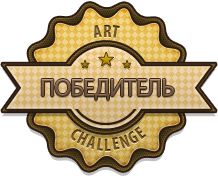
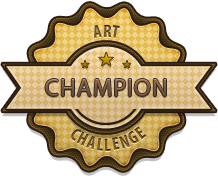
english

Changed region(s): [[0.1651, 0.4213, 0.8257, 0.5618]]

diff --git a/en/index.html b/en/index.html
@@ -5,13 +5,13 @@
     <meta http-equiv="X-UA-Compatible" content="IE=edge">
     <meta property="og:type"   content="website" /> 
     <meta name="viewport" content="width=device-width, initial-scale=1">
-    <meta name="description" content="Попробуйте отгадать 10 художников подряд и победить своих друзей!">
-    <meta property="og:description" content="Попробуйте отгадать 10 художников подряд и победить своих друзей!" />
+    <meta name="description" content="Try to guess 10 painters in a row and defeat your friends!">
+    <meta property="og:description" content="Try to guess 10 painters in a row and defeat your friends!" />
     <link rel="shortcut icon" href="favicon.ico">
     <link rel="image_src" href="http://artchallenge.ru/art-challenge-logo.png">
-    <title>Art Challenge - игра на знание популярных художников</title>
-    <meta property="og:title" content="Art Challenge - игра на знание популярных художников" />
-    <meta property="og:url" content="http://artchallenge.ru/" />
+    <title>Art Challenge - Game on Knowledge of Popular Painters</title>
+    <meta property="og:title" content="Art Challenge - Game on Knowledge of Popular Painters" />
+    <meta property="og:url" content="http://artchallenge.ru/en/" />
     <meta property="og:image" content="http://artchallenge.ru/art-challenge-logo-facebook.png" />
     <meta property="og:site_name" content="Art Challenge"/>
     
@@ -427,17 +427,16 @@
               putButtons('Vasily Vereshchagin');
               window.truePainterName = "Vasily Vereshchagin";
             }
-            
-            
-              
+                  
       puticons();
+      winner();
     }
 
     
     function winner() {
       $.pnotify({
-          title: 'Поздравляем!',
-          text: 'Вы великолепно разбираетесь в искусcтве!<br>10 из 10 – это лучше, чем 82% людей, сыгравших в эту игру!' + "<br><br><a onclick='ShareVK();' href='#'><img style='margin-left: 25px;' width='230px'  src='winner-badge.png'></a><br><br><text style='font-size: 16px;'>Вы можете рассказать о победе в социальных сетях:<br><a onclick='ShareVK();' href='#'> <span class='glyphicon glyphicon-share-alt'></span> ВКонтакте </a><br><a onclick='ShareFB();' href='#'><span class='glyphicon glyphicon-share-alt'></span> Facebook </a><br><a onclick='ShareOD();' href='#'><span class='glyphicon glyphicon-share-alt'></span> Одноклассники </a><br><a onclick='ShareMM();' href='#'><span class='glyphicon glyphicon-share-alt'></span> Мой Мир </a></text>",
+          title: 'Congratulations!',
+          text: 'You are perfectly good in the Art!<br>10 out of 10 - it is better than 82% of people who have played this game!' + "<br><br><a onclick='ShareFB();' href='#'><img style='margin-left: 25px;' width='230px'  src='winner-badge.png'></a><br><br><text style='font-size: 16px;'>You can share your win with friends:<br><a onclick='ShareFB();' href='#'><span class='glyphicon glyphicon-share-alt'></span> Facebook </a><br><a onclick='ShareVK();' href='#'> <span class='glyphicon glyphicon-share-alt'></span> VKontakte </a></text>",
           type: 'note',
           hide: false,
           closer: false,
@@ -453,28 +452,15 @@
     
     function ShareVK() {
       yaCounter24594722.reachGoal('WINNER-SHARE-VK');
-      url = "http://vk.com/share.php?url=http://artchallenge.ru/?utm_source=vk-win" + "&title=Господа, я отлично разбираюсь в искусстве!&description=Попробуйте отгадать 10 художников подряд и посоревноваться со мной!&image=http://artchallenge.ru/art-challenge-winner1.png";
+      url = "http://vk.com/share.php?url=http://artchallenge.ru/en/?utm_source=vk-win-en" + "&title=Ladies and Gentlemen, I am perfectly good in the Art! %23ArtChallenge&description=Try to guess 10 painters in a row and defeat your friends!&image=http://artchallenge.ru/art-challenge-winner1.png";
       window.open(url,'targetWindow','toolbar=no,location=no,status=no,menubar=no,scrollbars=yes,resizable=yes,width=604,height=401');
     }        
     
     function ShareFB() {
       yaCounter24594722.reachGoal('WINNER-SHARE-FB');
       
-      url = "https://www.facebook.com/dialog/feed?app_id=478531102278887&display=popup&link=http://artchallenge.ru/?utm_source=fb-win&redirect_uri=http://artchallenge.ru/&picture=http://artchallenge.ru/winner-badge200.png&source=http://artchallenge.ru/winner-badge200.png&name=Господа, я отлично разбираюсь в искусстве!&caption=Art Challenge - игра на знание популярных художников"
+      url = "https://www.facebook.com/dialog/feed?app_id=478531102278887&display=popup&link=http://artchallenge.ru/en/?utm_source=fb-win-en&redirect_uri=http://artchallenge.ru/1.html&picture=http://artchallenge.ru/en/winner-badge200.png&source=http://artchallenge.ru/en/winner-badge200.png&name=Ladies and Gentlemen, I am perfectly good in the Art!&caption=Art Challenge - Game on Knowledge of Popular Painters"
       
-      window.open(url,'targetWindow','toolbar=no,location=no,status=no,menubar=no,scrollbars=yes,resizable=yes,width=604,height=401');
-    }        
-
-    function ShareOD() {
-      yaCounter24594722.reachGoal('WINNER-SHARE-OD');
-      url = "http://www.odnoklassniki.ru/dk?st.cmd=addShare&st.s=1&st.comments=Господа, я отлично разбираюсь в искусстве!&st._surl=http://artchallenge.ru/?utm_source=od-win";
-      
-      window.open(url,'targetWindow','toolbar=no,location=no,status=no,menubar=no,scrollbars=yes,resizable=yes,width=604,height=401');
-    }        
-
-    function ShareMM() {
-      yaCounter24594722.reachGoal('WINNER-SHARE-MM');
-      url = "http://connect.mail.ru/share?url=http://artchallenge.ru/?utm_source=mm-win&title=Господа, я отлично разбираюсь в искусстве!&description=Art Challenge - игра на знание популярных художников";
       window.open(url,'targetWindow','toolbar=no,location=no,status=no,menubar=no,scrollbars=yes,resizable=yes,width=604,height=401');
     }        
 
@@ -707,8 +693,8 @@
       setTimeout(function() {location.reload(false)}, 2000)
       
       $.pnotify({
-          title: 'Верно!',
-          text: 'Вы отгадали ' + parseInt(window.counter) + " картину",
+          title: 'Right!',
+          text: 'You guessed ' + parseInt(window.counter) + " picture",
           type: 'success',
           hide: false,
           closer: false,
@@ -727,7 +713,7 @@
       
       $.pnotify({
           title: badPhrase(),
-          text:  "Это же " + window.truePainterName + ".<br><br><img src='" + "https://dl.dropboxusercontent.com/u/15486902/painters/" + window.truePainter + "/photo.jpg' style='width: 100px;'><br><br><a style='cursor: pointer;' onclick='retry();'>Попробовать еще раз</a>",
+          text:  "It's " + window.truePainterName + ".<br><br><img src='" + "https://dl.dropboxusercontent.com/u/15486902/painters/" + window.truePainter + "/photo.jpg' style='width: 100px;'><br><br><a style='cursor: pointer;' onclick='retry();'>Try again.</a>",
           type: 'error',
           icon: 'glyphicon glyphicon-remove',
           hide: false,
@@ -779,43 +765,43 @@
       switch (Math.floor((Math.random()*10)+1))
       {
       case 1:
-        phrase = "Да Вы обезумели!";
+        phrase = "You mad!";
         break;
         
       case 2:
-        phrase = "Ну как не стыдно?";
+        phrase = "No shame?";
         break;
 
       case 3:
-        phrase = "Вам нездоровится?";
+        phrase = "You ill?";
         break;
         
       case 4:
-        phrase = "Что за нелепость?";
+        phrase = "What nonsense?";
         break;
         
       case 5:
-        phrase = "Займитесь самообразованием!";
+        phrase = "Engage in self!";
         break;
 
       case 6:
-        phrase = "Как Вы могли?..";
+        phrase = "How could you?..";
         break;
 
       case 7:
-        phrase = "Нет, нет и нет!";
+        phrase = "No, no and no!";
         break;
 
       case 8:
-        phrase = "Одумайтесь!";
+        phrase = "Think better!";
         break;
 
       case 9:
-        phrase = "А если подумать?";
+        phrase = "Sorry.";
         break;
 
       case 10:
-        phrase = "Какого чёрта?!";
+        phrase = "What the hell?";
         break;
       }
 
@@ -863,7 +849,7 @@
            data-yashareQuickServices="vkontakte,facebook,twitter,odnoklassniki,moimir" data-yashareTheme="counter"></div> 
         </ul>
 
-        <a href="http://www.artchallenge.ru"><h3 class="text-muted"><span class="glyphicon glyphicon-pencil"></span> Art Challenge</h3></a>
+        <a href="http://www.artchallenge.ru/en/"><h3 class="text-muted"><span class="glyphicon glyphicon-pencil"></span> Art Challenge</h3></a>
       </div>
       <br>
 
@@ -890,68 +876,41 @@
         <a id ="btn2" onclick="checkAnswer('btn2');" class="btn btn-lg btn-success"  role="button"></a>
         <a id ="btn3" onclick="checkAnswer('btn3');" class="btn btn-lg btn-success"  role="button"></a>
         <a id ="btn4" onclick="checkAnswer('btn4');" class="btn btn-lg btn-success"  role="button"></a>
-        
-        <br><br><a id="report" title="Сообщить о проблеме с картиной" style="color: lightgray; cursor: pointer;" onclick="report();">Эта картина не репрезентативна</a><br><br>
+
+        <br><br><a id="report" title="Report a problem with this picture" style="color: lightgray; cursor: pointer;" onclick="report();"><span class="glyphicon glyphicon-warning-sign"></span></a><br><br>
         </div>
         
       </div>
       
-      
-      <div style="float: right; margin-top: 15px">
-        
-        <a id="banner" onclick="yaCounter24594722.reachGoal('BANNER'); return true;" target="_blank" rel="nofollow" href="http://ad.admitad.com/goto/5fd1589d3851b6125fbfe0fbcdf1d18f284381fe/?subid=1">
-        <img width="234" height="60" border="0" src="http://ad.admitad.com/b/5fd1589d3851b6125fbfe0fbcdf1d18f284381fe/" alt="Anno Online" />
-        </a>
-        <br><br>
-        
-        <script type='text/javascript'>(function() {
-          /* Optional settings (these lines can be removed): */ 
-          subID = "2";  // - local banner key;
-          injectTo = "";  // - #id of html element (ex., "top-banner").
-          /* End settings block */ 
-
-          if(injectTo=="")injectTo="admitad_shuffle"+subID+Math.round(Math.random()*100000000);
-          if(subID=='')subid_block=''; else subid_block='subid/'+subID+'/';
-          document.write('<div id="'+injectTo+'"></div>');
-          var s = document.createElement('script');
-          s.type = 'text/javascript'; s.async = true;
-          s.src = 'http://www.ad.admitad.com/shuffle/62f599748d/'+subid_block+'?inject_to='+injectTo;
-          var x = document.getElementsByTagName('script')[0];
-          x.parentNode.insertBefore(s, x);
-        })();</script>
-      </div>
 
       <div class="row marketing">
         <div class="col-lg-8">
 
-          <h3>Что здесь происходит?</h3>
-          <p>Вам предлагается развлечь себя игрой на знание истории изобразительного искусства.</p>
+          <h3>What's going on here?</h3>
+          <p>You are proposed to entertain yourself by playing a game on knowledge of the history of art.</p>
 
-          <h3>Как это работает?</h3>
-          <p>Нужно отгадывать авторов картин.<br>Побеждают те господа, которые смогут отгадать 10 картин подряд.</p>
+          <h3>How it's work?</h3>
+          <p>You need to guess painters.<br>You will win if you can guess the 10 pictures in a row.</p>
           
-          <h3>Какая от этого польза?</h3>
-          <p>Играйте в свободное время, и очень скоро Вы без труда будете отличать<br>Клода Моне от Эдгара Мане с первого взгляда, и уж точно от Альфреда Сислея)</p>
+          <h3>What good is it?</h3>
+          <p>Play free time, and very soon you'll be easily differentiate Claude Monet from Edgar Manet at a glance, and certainly from Alfred Sisley :)</p>
 
-          <h3>Чем я могу помочь?</h3>
-          Если Вам понравился сайт, будьте так любезны, расскажите о нём друзьям:<br>
+          <h3>How can I help?</h3>
+          If you liked the site, be so kind and tell your friends about it:<br>
 
           <div style="margin-left: -5px;" class="yashare-auto-init" data-yashareL10n="ru"
            data-yashareQuickServices="vkontakte,facebook,twitter,odnoklassniki,moimir" data-yashareTheme="counter" data-yashareImage="http://artchallenge.ru/art-challenge-logo.png"></div> 
 
-          <h3>What about the English version?</h3>
-          <p>Of course, here it is: <a href='en/' onclick="yaCounter24594722.reachGoal('ENGLISH'); return true;">English version</a></p>
-
-          <h3>Подписывайтесь ВКонтакте:</h3>
-          <div id="vk_groups" onclick="yaCounter24594722.reachGoal('VK-SUBSCRIBE'); return true;" style="float: left; margin: 10px 0 0 0;"></div>
+          <h3>Other languages?</h3>
+          <p>Yes, we also have the <a href='http://artchallenge.ru'>Russian version.</a></p>
 
         </div>
       </div>        
 
       <br>
       <div class="footer">
-        <p>&copy; Сайт создан <a href="https://vk.com/just14zy" onclick="yaCounter24594722.reachGoal('RUBEN-CLICK'); return true;"><img style="margin-bottom: 7px;" height="20px;" width="20px;" src="https://pp.vk.me/c9682/u10063679/e_b7c0d17c.jpg">Рубеном</a> и <a href="https://vk.com/id9755975" onclick="yaCounter24594722.reachGoal('ANNA-CLICK'); return true;"><img style="margin: 0 3px 4px 0;" height="18px;" width="18px;" src="https://pp.vk.me/c322816/v322816975/bd15/qTopJ88cvh0.jpg">Анной</a> в 2014 году. Пишите нам, если у Вас есть “отзывы и предложения” или по любому другому поводу.</p>
-        <p>Другие наши проекты: <a target="_blank" href="http://social-coins.com/?utm_source=artchallenge">Social Coins</a> | <a target="_blank" href="http://forgiveme.today/?utm_source=artchallenge">Forgiveme.today</p>
+        <p>&copy; Site created by <a href="http://facebook.com/just14zy" onclick="yaCounter24594722.reachGoal('RUBEN-CLICK'); return true;"><img style="margin-bottom: 7px;" height="20px;" width="20px;" src="https://pp.vk.me/c9682/u10063679/e_b7c0d17c.jpg">Ruben</a> and <a href="https://www.facebook.com/plotkina.anna" onclick="yaCounter24594722.reachGoal('ANNA-CLICK'); return true;"><img style="margin: 0 3px 4px 0;" height="18px;" width="18px;" src="https://pp.vk.me/c322816/v322816975/bd15/qTopJ88cvh0.jpg">Anna</a> in 2014. Feel free to write us, if you have any questions.<br>
+        Our other projects: <a target="_blank" href="http://social-coins.com/?utm_source=artchallenge-en">Social Coins</a> | <a target="_blank" href="http://forgiveme.today/?utm_source=artchallenge-en">Forgiveme.today</p>
       </div>
     </div> <!-- /container -->
 
